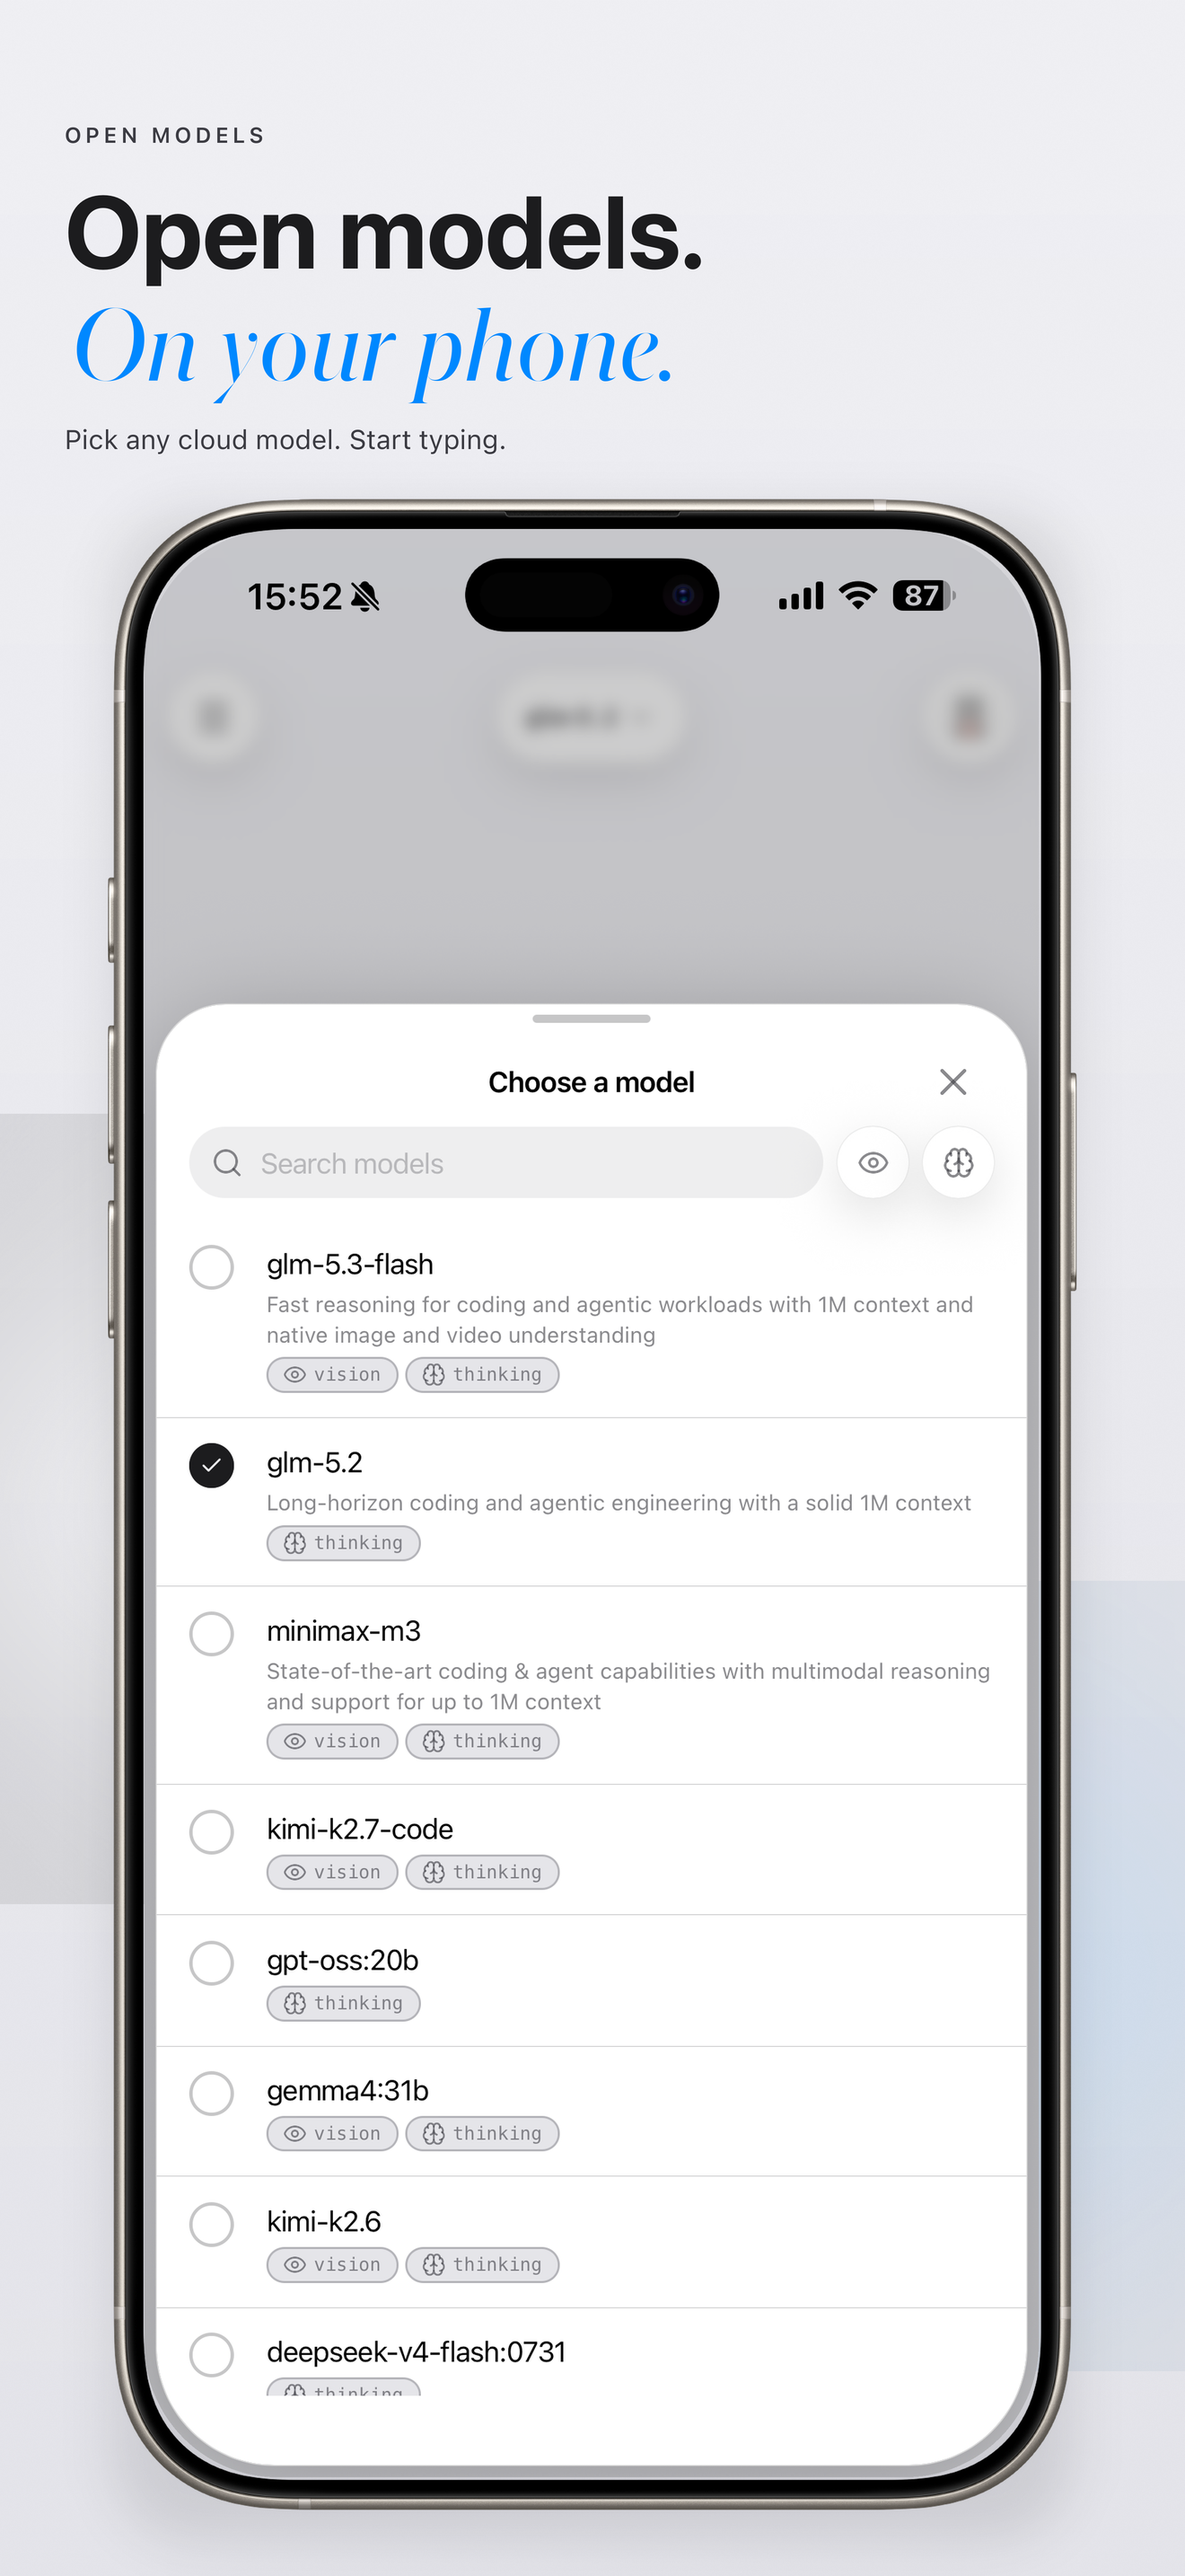
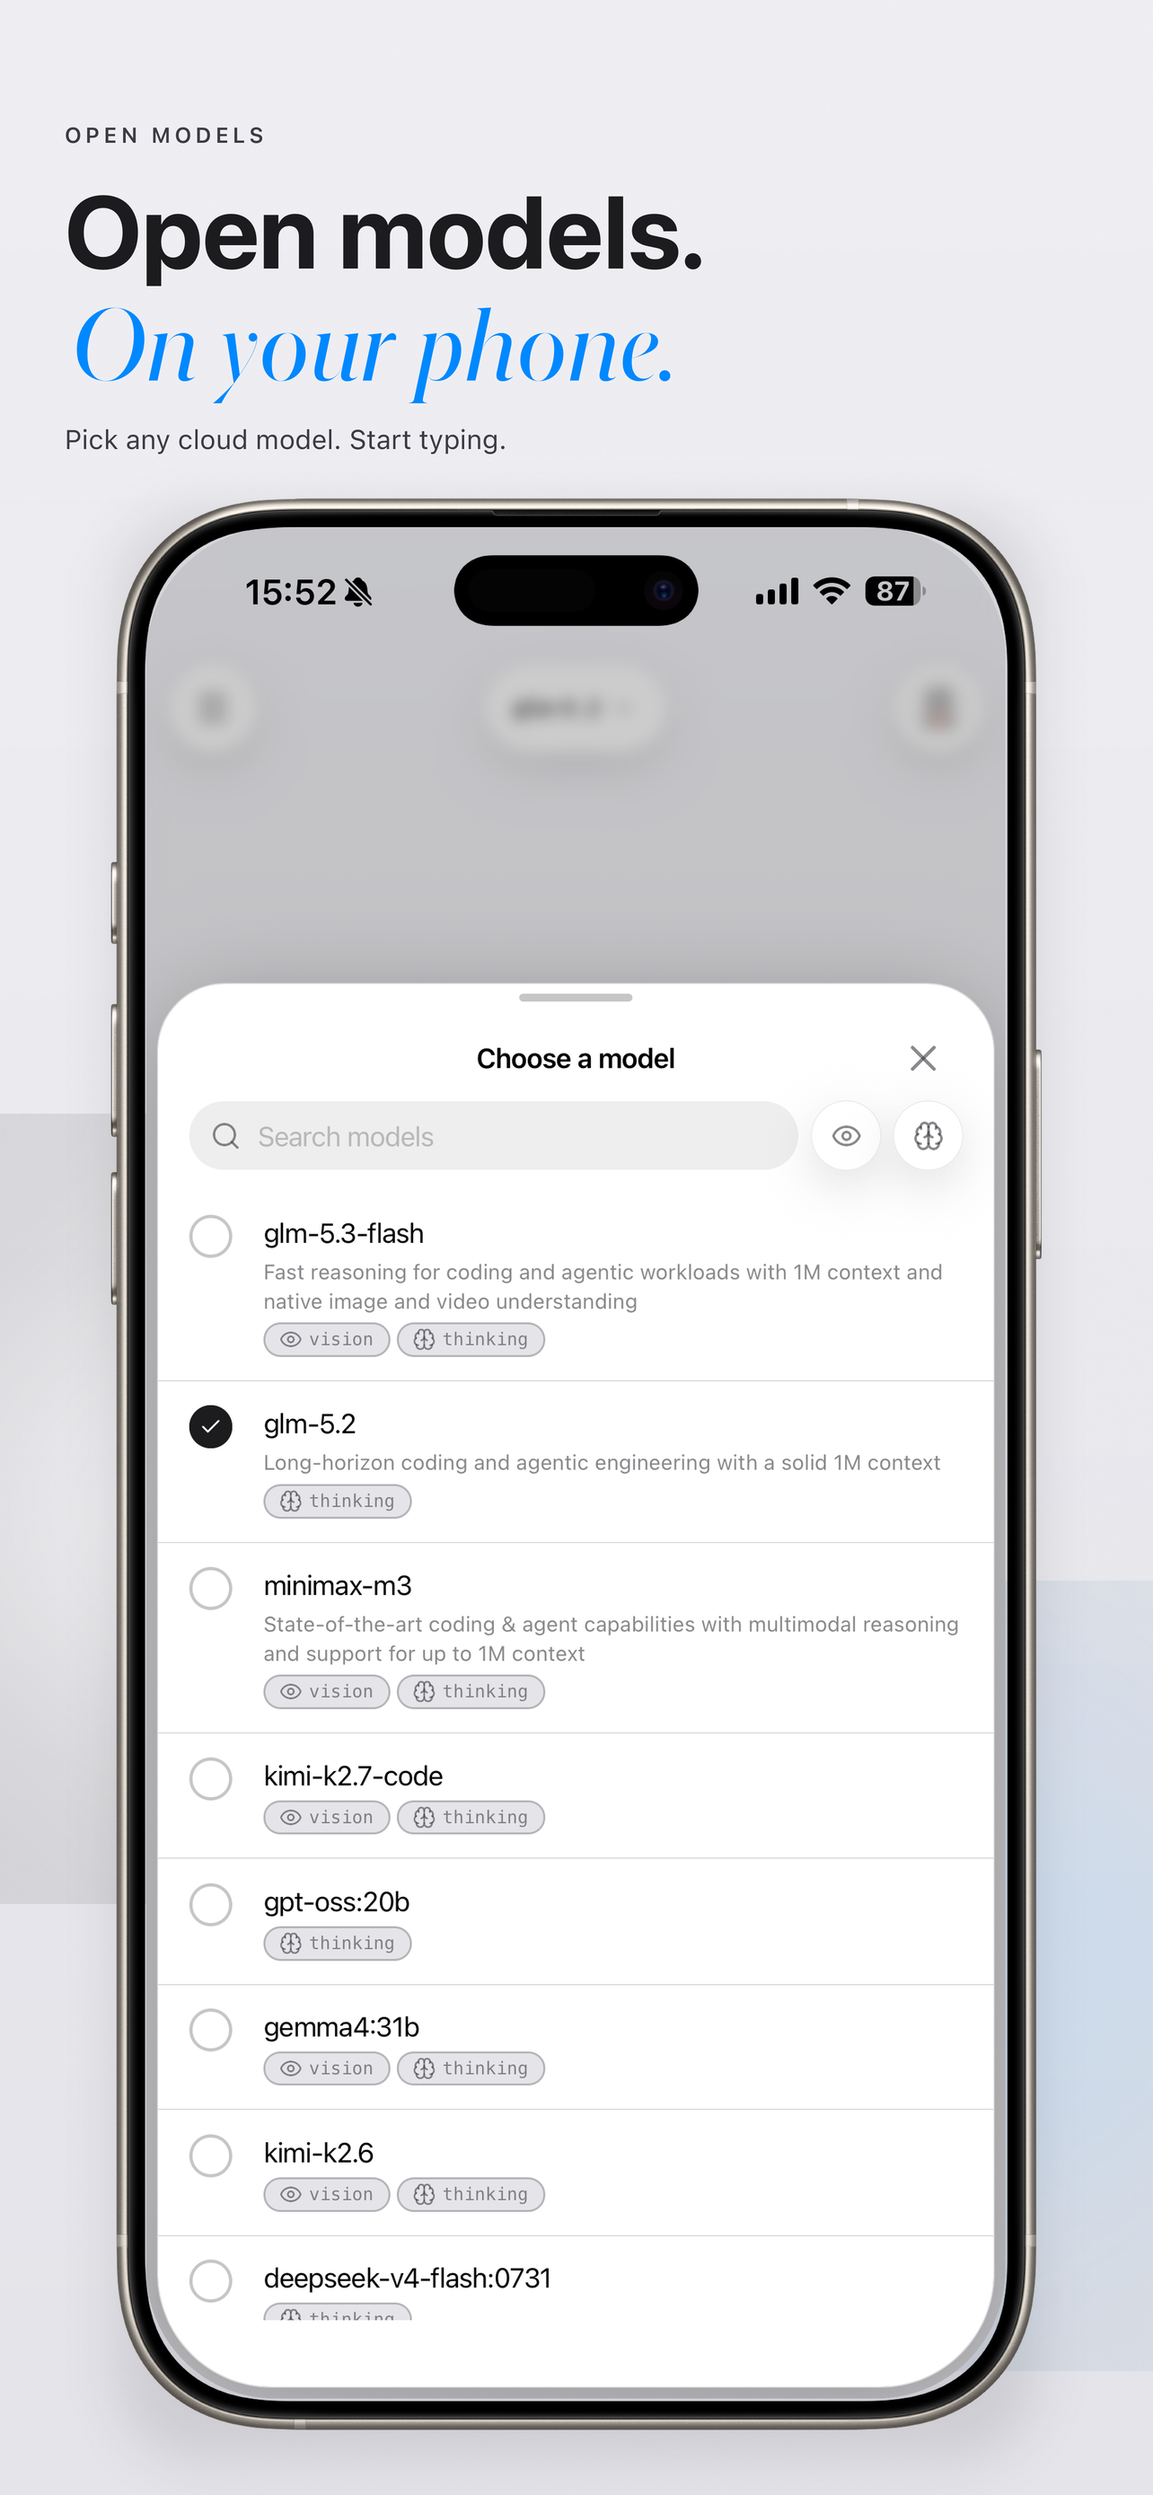
docs(store): export iPhone frames at 1284x2778 for Connect
- Connect rejected 6.9" 1320×2868 on this listing.
- 6.7" 1284×2778 is an accepted portrait size.

diff --git a/docs/store/ios/generate-iphone.py b/docs/store/ios/generate-iphone.py
@@ -18,7 +18,8 @@ ROOT = Path(__file__).resolve().parents[2] / "screenshots"
 OUT = Path(__file__).resolve().parent
 FRAME_PNG = OUT / "device-iphone-16-pro-max-natural.png"
 
-W, H = 1320, 2868
+# App Store Connect 6.7" portrait. 6.9" (1320×2868) is rejected on this listing.
+W, H = 1284, 2778
 SCALE = 2
 CW, CH = W * SCALE, H * SCALE
 
